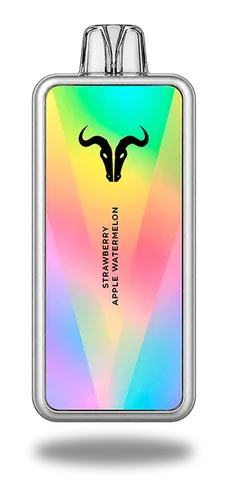
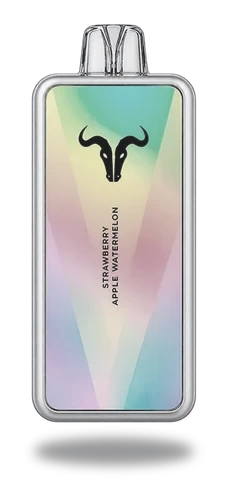
Boost Mix en promo a $26.000, nuevo orden de ofertas y Ultra Slim más grisáceo

diff --git a/index.html b/index.html
@@ -6328,7 +6328,7 @@ window.__PRODUCT_PHOTOS__ = {
   'ebcreate': 'img/productos/sm/ebcreate.webp?v=3',
   'bc': 'img/productos/sm/bc.webp?v=3',
   'v300': 'img/productos/sm/v300.webp?v=3',
-  'v400_ultra_slim': 'img/productos/sm/v400_ultra_slim.webp?v=1',
+  'v400_ultra_slim': 'img/productos/sm/v400_ultra_slim.webp?v=2',
   'v400': 'img/productos/sm/v400.webp?v=3',
   'vmix': 'img/productos/sm/vmix.webp?v=3',
   'ice_king': 'img/productos/sm/ice_king.webp?v=3',
@@ -6417,14 +6417,14 @@ const CATALOG = [
   /* Precio según cotización Italia Shop (S12211): USD 10,50 × 1660 = $17.430
      + ~$12.000 de margen → $29.500; en oferta a $25.500. */
   {name:'LUMA', price:25500, originalPrice:29500, promo:true, promoOrder:4, puffs:40000, photo:'dinner_lady_luma', photoScale:0.85, reel:'DeSItt6KCpc', outOfStock:true, flavors:[]},
-  {name:'EBCREATE BC PRO', price:23000, originalPrice:25000, promo:true, promoOrder:1, puffs:40000, photo:'ebcreate', realPhoto:'ebcreate', flavors:[
+  {name:'EBCREATE BC PRO', price:23000, originalPrice:25000, promo:true, promoOrder:3, puffs:40000, photo:'ebcreate', realPhoto:'ebcreate', flavors:[
     {name:'Aurora Berries 🫐', stock:2},{name:'Golden Berry ✨', stock:1},
     {name:'Strawberry Blend 🍓', stock:2},{name:'Triple Berry 🫐', stock:2},
     {name:'Watermelon Peach Frost 🍉🍑', stock:1},{name:'Strawberry Raspberry Frost 🍓❄', stock:2},{name:'Blackberry Grape 🍇', stock:2}
   ]},
   {name:'IGNITE V500', price:29000, originalPrice:32000, promo:true, promoOrder:1, puffs:50000, photo:'v500', outOfStock:true, flavors:[]},
   // `note`: aclaración que se muestra arriba de los sabores en el detalle.
-  {name:'IGNITE BOOST MIX', price:28000, puffs:40000, photo:'ignite_boost_mix', realPhoto:'ignite_boost_mix',
+  {name:'IGNITE BOOST MIX', price:26000, originalPrice:28000, promo:true, promoOrder:1, puffs:40000, photo:'ignite_boost_mix', realPhoto:'ignite_boost_mix',
     note:'🔥 <span><b>2 sabores en 1 vape</b></span>',
     flavors:[
     {name:'Banana Cherry 🍌🍒 + Grape Ice 🍇', stock:1},{name:'Blueberry 🫐 + Strawberry 🍓', stock:1},{name:'Cherry 🍒 + Grape Ice 🍇', stock:1},
@@ -6478,7 +6478,7 @@ const CATALOG = [
 /* Orden por defecto del catálogo (de arriba hacia abajo). Lo que no esté en
    esta lista va después; lo de liquidación siempre al final. */
 const HOME_ORDER = [
-  'EBCREATE BC PRO', 'IGNITE ICE ULTRA SLIM', 'IGNITE BOOST MIX',
+  'IGNITE BOOST MIX', 'IGNITE ICE ULTRA SLIM', 'EBCREATE BC PRO',
   'BLACKSHEEP 55K', 'ELFBAR TRIO', 'IGNITE V400 ICE', 'ELFBAR BC'
 ];
 
